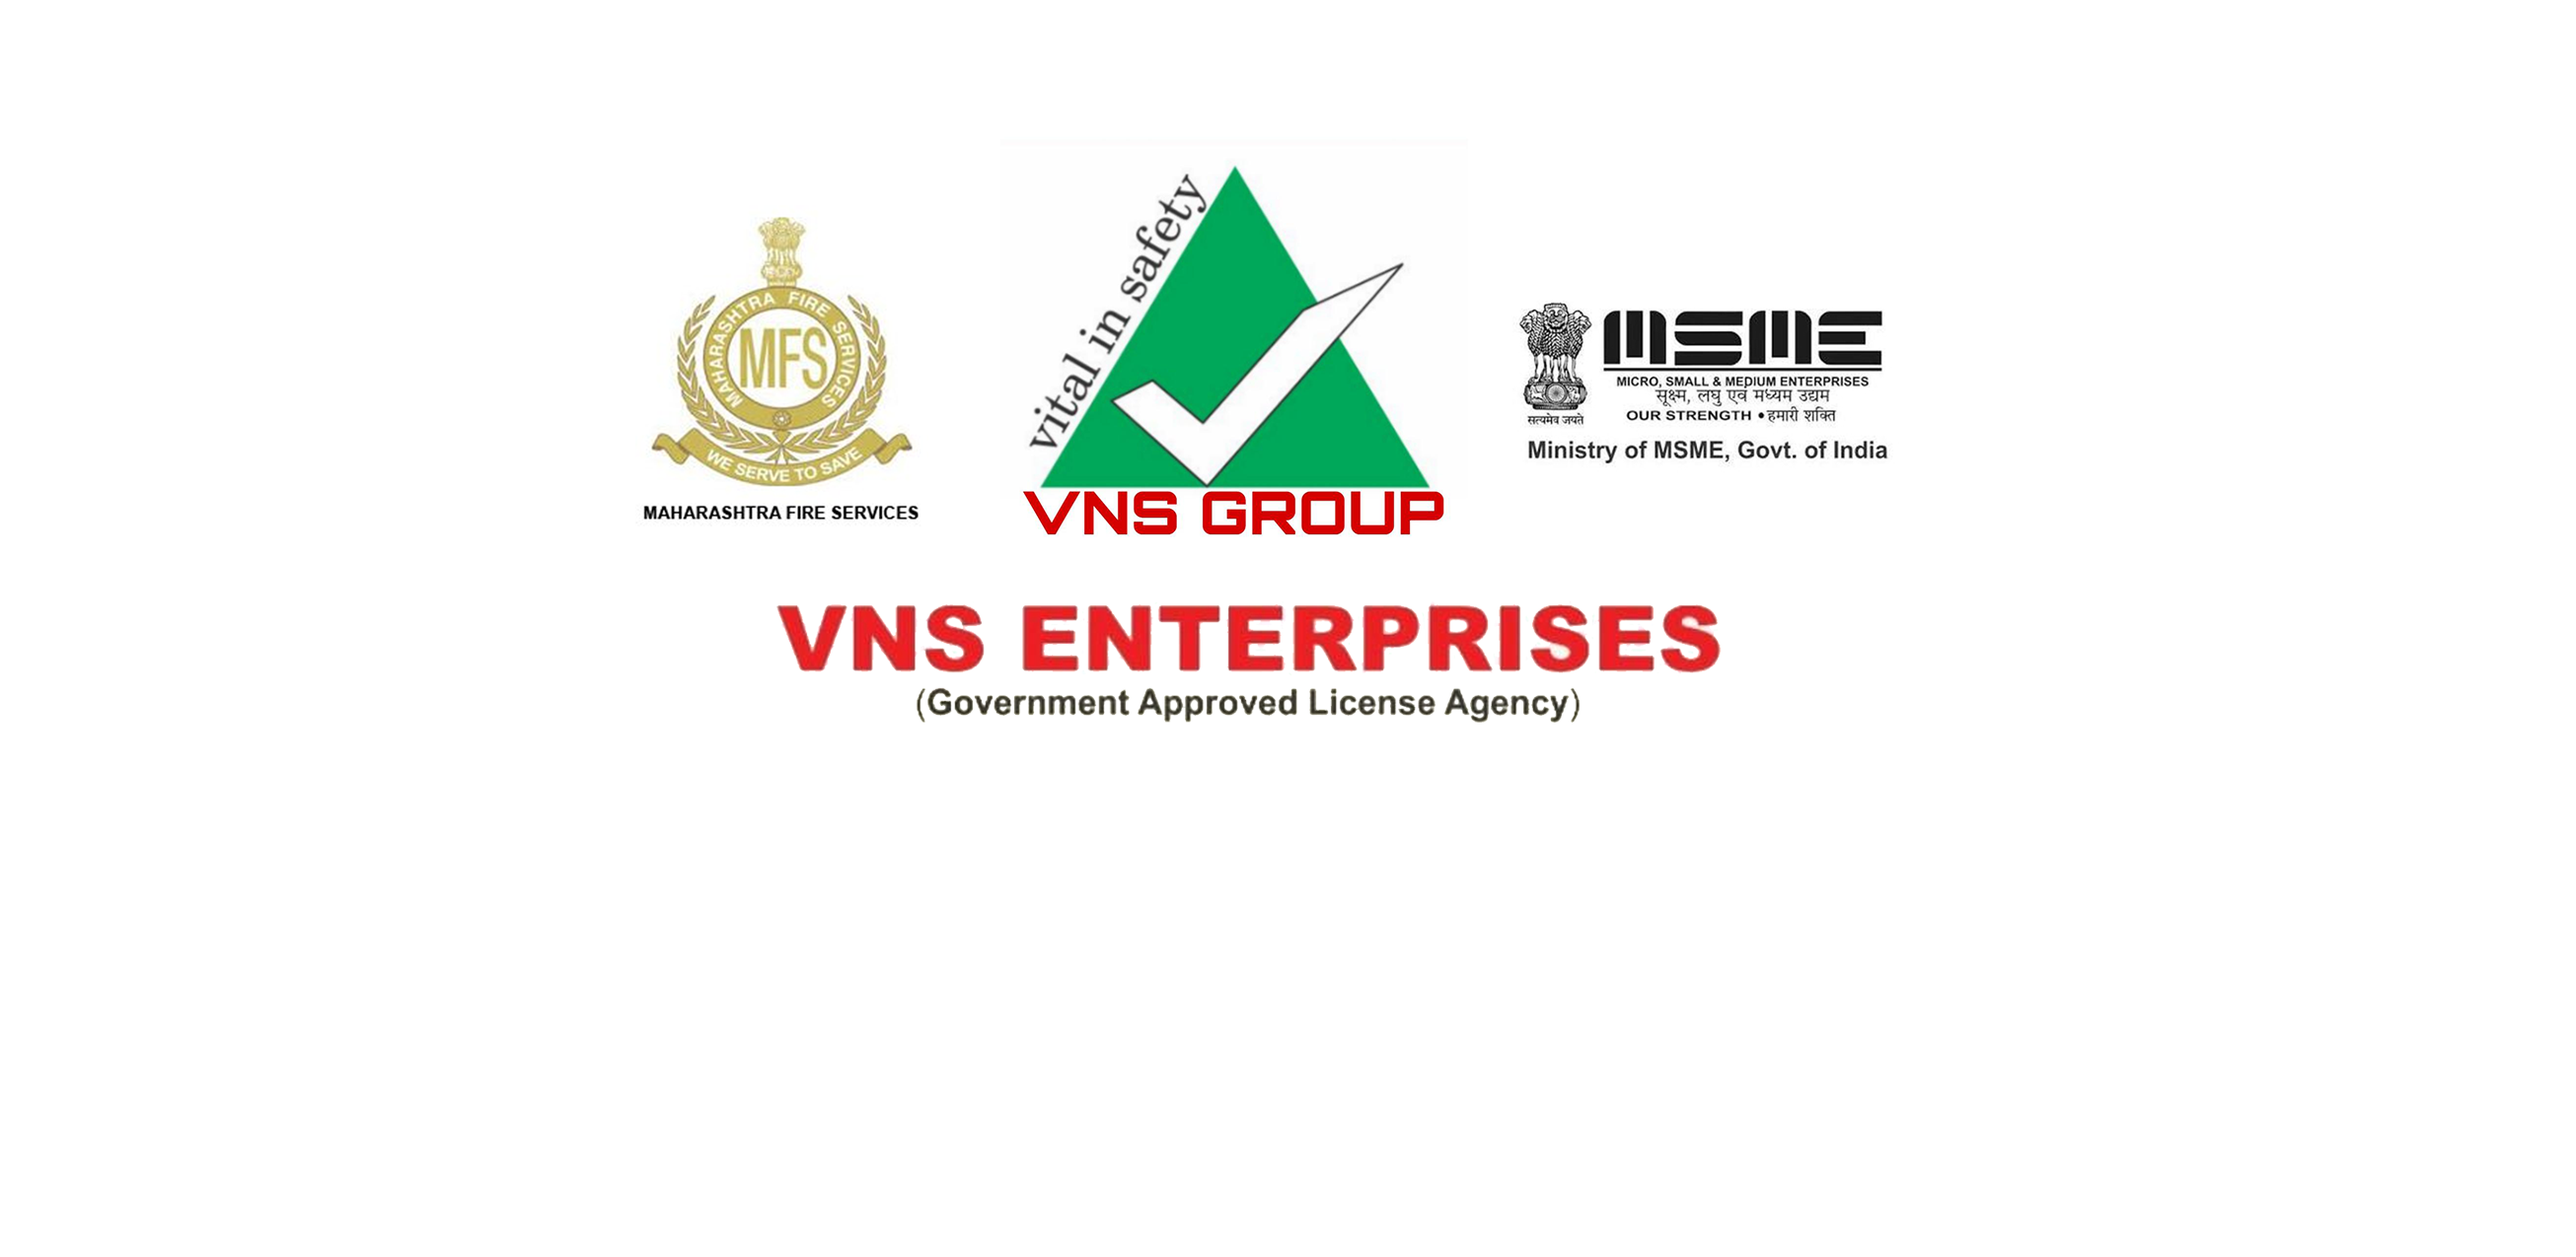
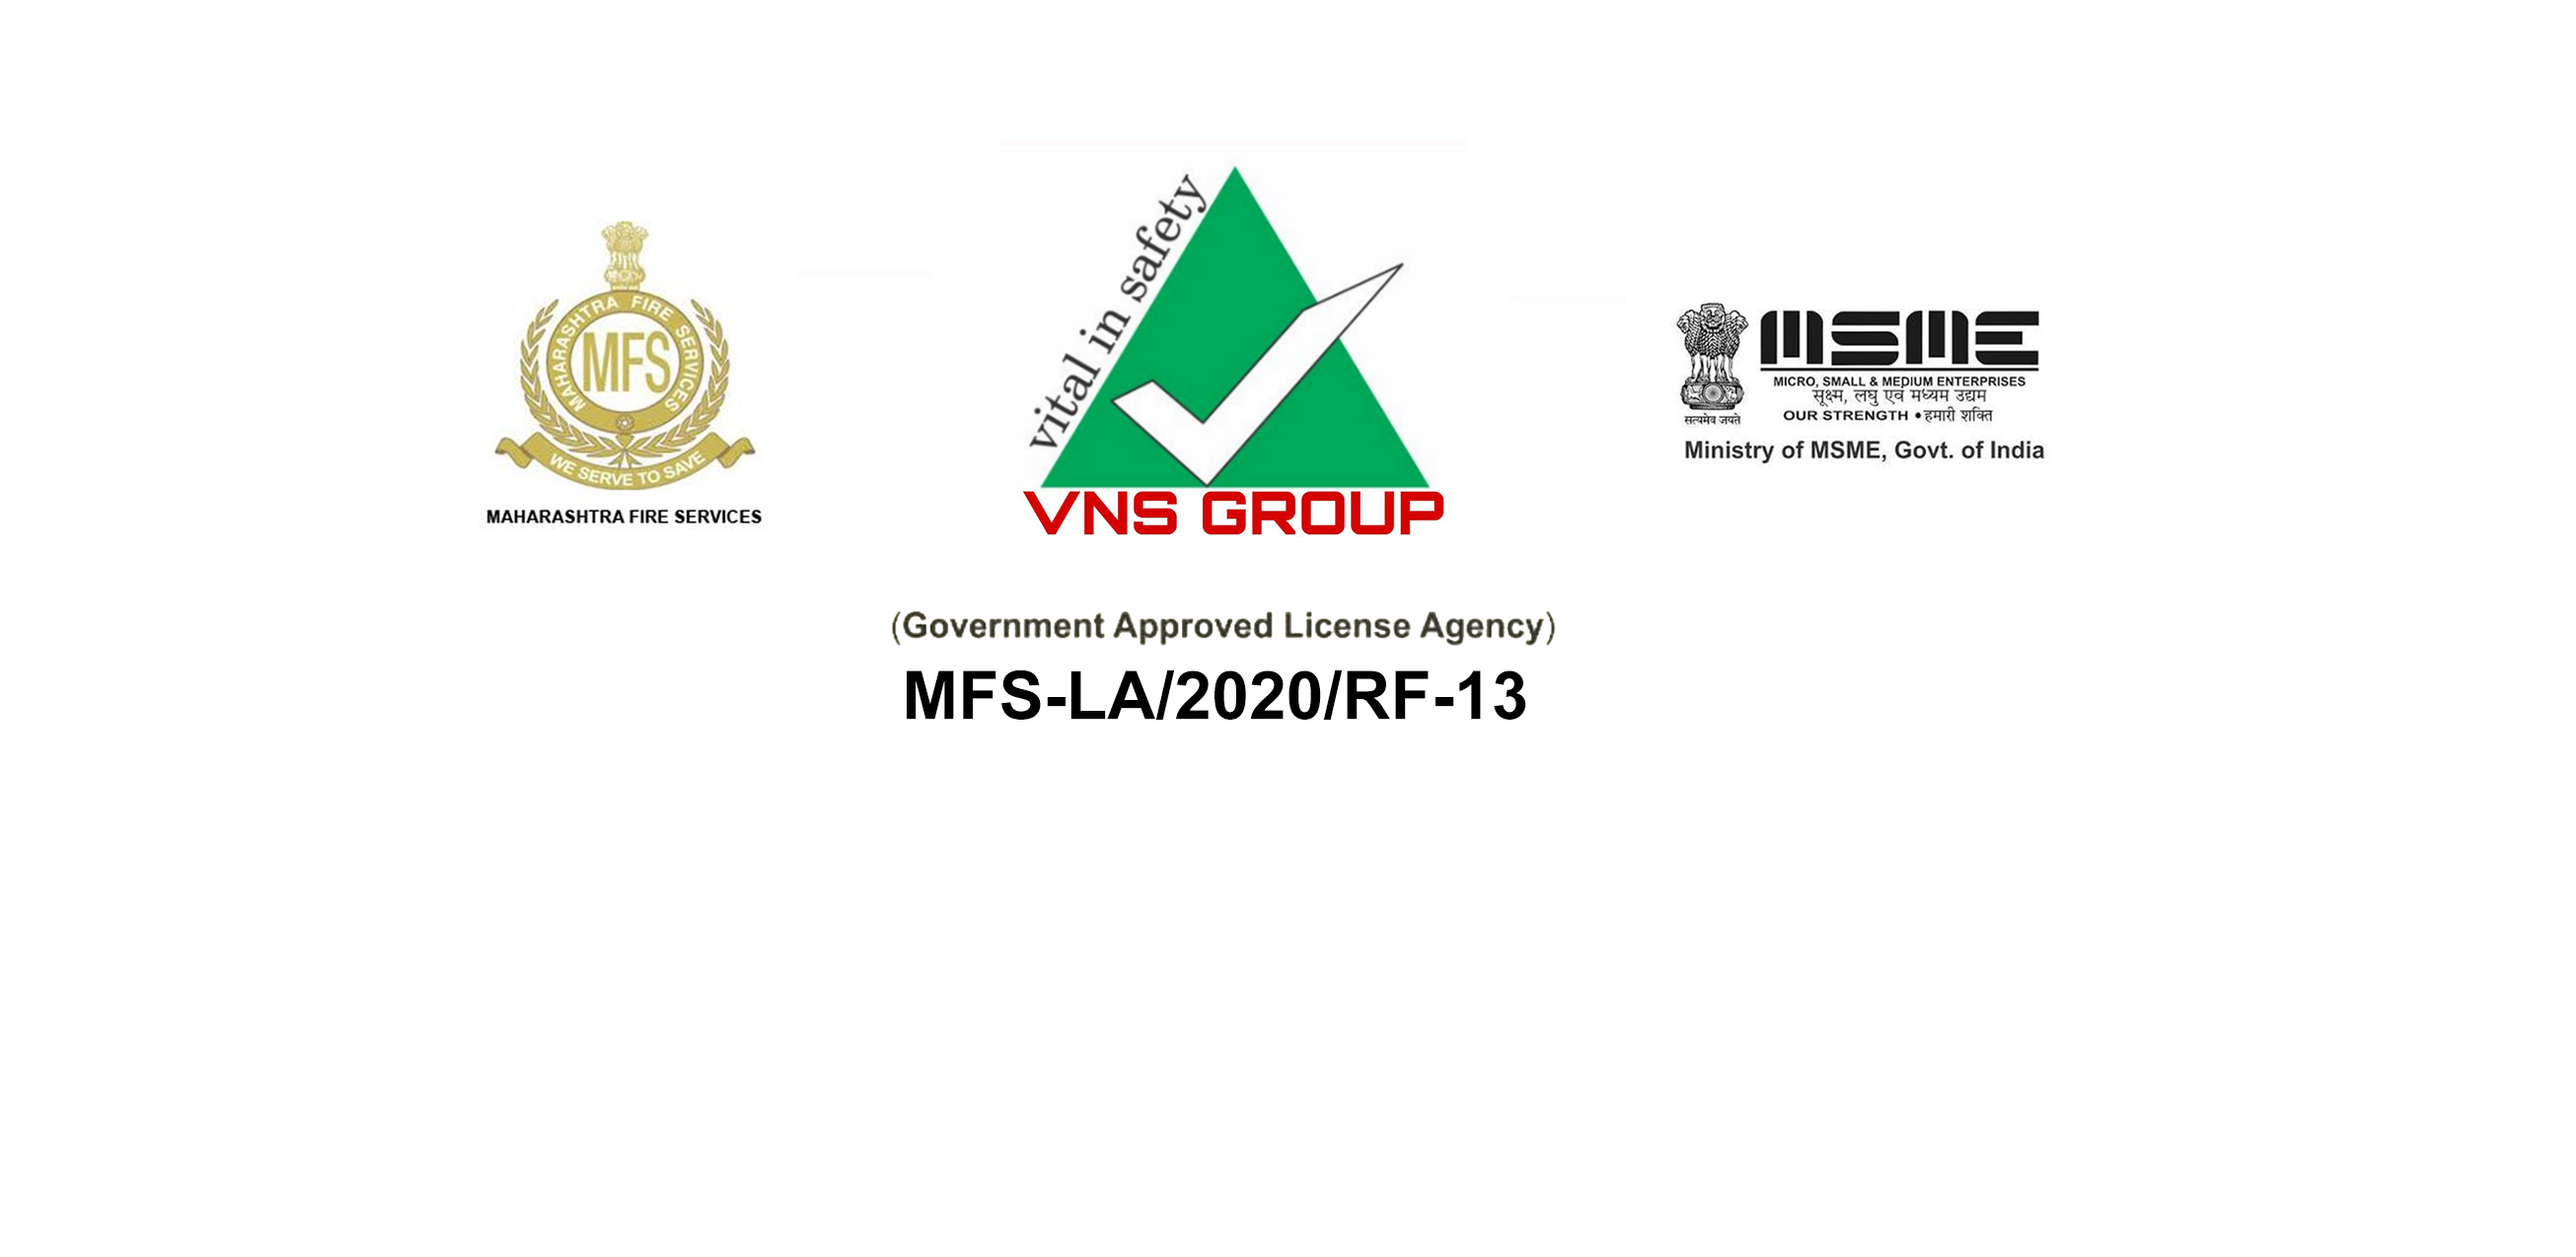
Finalised website

Changed region(s): [[0.2792, 0.4588, 0.6825, 0.5812], [0.1861, 0.1529, 0.3723, 0.4282], [0.5894, 0.2447, 0.8066, 0.3671]]

diff --git a/src/components/aboutUs2.vue b/src/components/aboutUs2.vue
@@ -5,17 +5,41 @@
 				<img src="../assets/vnslogo.jpg" class="img-fluid" alt="" />
 			</div>
 
-			<div class="container">
+			<div class="container about">
 				<h4 class="subheading">
 					VNS - Vital in Safety
 				</h4>
-                    <p>VNS GROUP was established in 2015 with the Aim of Becoming in MAHARASTRA&rsquo;S Best fire Protection solution provider in order to provide a wide range of system in order to protect
-                    And prevent any sort of fire Disaster .</p>
-                    <p>Also <strong>&ldquo;An Approved Licensed Agency For Directorate of Maharastra Fire Services &rdquo;</strong>. we Have undertaken and Successfully completed many project in and around the maharastra.</p>
-                    <p><strong>VNS ENTREPRISES</strong> is comprehensive solution Provider For Any type of fire Disaster with a wide range of Product from basic level fire Extinguisher to sophisticated full-fledged fire protection system.</p>
-                    <p><strong>VNS FIRE SOLUTION PVT.LTD &nbsp;</strong>is A well-designed water based Automatic fire protection System in High rise building / Commercial &amp; industrial complexes <strong>&nbsp;&amp; </strong>installed &nbsp;Fire Hydrant Systems ,Fire Sprinkler Systems ,Fire Alarm Systems ,fire detection Systems, fire Securities Systems &amp; fire Control Pannel As Minimum Possible Time by Team of Exports &amp; Professional.</p>
-                    <p>&nbsp;&nbsp;&nbsp;&nbsp;&nbsp;&nbsp;</p>
-                    <p>&nbsp;</p>			
+				<p>
+					VNS GROUP was established in 2015 with the Aim of Becoming in
+					MAHARASTRA&rsquo;S Best fire Protection solution provider in order to
+					provide a wide range of system in order to protect And prevent any
+					sort of fire Disaster .
+				</p>
+				<p>
+					Also
+					<strong
+						>&ldquo;An Approved Licensed Agency For Directorate of Maharastra
+						Fire Services &rdquo;</strong
+					>. We Have undertaken and Successfully completed many project in and
+					around the maharastra.
+				</p>
+				<p>
+					<strong>VNS ENTREPRISES</strong> is comprehensive solution Provider
+					For Any type of fire Disaster with a wide range of Product from basic
+					level fire Extinguisher to sophisticated full-fledged fire protection
+					system.
+				</p>
+				<p>
+					<strong>VNS FIRE SOLUTION PVT.LTD &nbsp;</strong>is a well-designed
+					water based Automatic fire protection System in High rise building /
+					Commercial &amp; industrial complexes
+					<strong>&nbsp;&amp; </strong>installed &nbsp;Fire Hydrant Systems
+					,Fire Sprinkler Systems ,Fire Alarm Systems ,fire detection Systems,
+					fire Securities Systems &amp; fire Control Pannel As Minimum Possible
+					Time by Team of Exports &amp; Professional.
+				</p>
+				<p>&nbsp;&nbsp;&nbsp;&nbsp;&nbsp;&nbsp;</p>
+				<p>&nbsp;</p>
 			</div>
 		</div>
 	</div>
@@ -56,9 +80,12 @@
 	.how-img img {
 		width: 75%;
 	}
-    .p{
-        text-align: left;
-    }
+	.p {
+		text-align: left;
+	}
+	.about {
+		text-align: left;
+	}
 	@media only screen and (max-width: 768px) {
 		.grid-contain {
 			display: grid;

diff --git a/src/components/Carousel.vue b/src/components/Carousel.vue
@@ -2,7 +2,7 @@
 	<div>
 		<b-carousel
 			id="carousel-1"
-			:interval="2000"
+			:interval="3000"
 			controls
 			indicators
 			class="slides"
@@ -10,7 +10,7 @@
 			style="text-shadow: 1px 1px 2px #333;"
 		>
 			<!-- Text slides with image -->
-			<b-carousel-slide class="slides blacktxt" caption="MFS-LA/2020/RF-13" text=""
+			<b-carousel-slide class="slides blacktxt" caption="" text=""
 				><template v-slot:img>
 					<img
 						class="d-block img-fluid w-100 custom"
@@ -38,10 +38,10 @@
 <script>
 	export default {
 		name: "Carousel",
-		data(){
+		data() {
 			return {
-				firstimg:''
-			}
+				firstimg: "",
+			};
 		},
 		mounted() {
 			if (screen.width < 600) {
@@ -62,7 +62,7 @@
 		object-fit: cover;
 		object-position: top;
 	}
-	.blacktxt{
+	.blacktxt {
 		color: black;
 	}
 

diff --git a/src/components/AboutUs.vue b/src/components/AboutUs.vue
@@ -9,8 +9,12 @@
 				<h2>
 					<b>VNS Vital In Safety</b>
 				</h2>
-						<h6>VNS GROUP was established in 2015 with the Aim of Becoming in MAHARASTRA&rsquo;S Best fire Protection solution provider in order to provide a wide range of system in order to protect</h6>
-							<b-button to="/about" variant="outline-primary">More</b-button>				
+				<h6>
+					VNS GROUP was established in 2015 with the Aim of Becoming in
+					MAHARASTRA&rsquo;S Best fire Protection solution provider in order to
+					provide a wide range of system in order to protect
+				</h6>
+				<b-button to="/about" variant="outline-primary">Learn More...</b-button>
 			</div>
 		</div>
 	</div>

diff --git a/src/views/about.vue b/src/views/about.vue
@@ -25,7 +25,7 @@
 					img-alt="Image"
 					img-top
 					tag="article"
-					style="max-width: 28rem;"
+					style="max-width: 18rem;"
 					class="card3"
 				>
 					<b-card-text>
@@ -38,11 +38,11 @@
 					img-alt="Image"
 					img-top
 					tag="article"
-					style="max-width: 28rem;"
+					style="max-width: 18rem;"
 					class="card2"
 				>
 					<b-card-text>
-						( Executive Director ) 
+						( Executive Director )
 					</b-card-text>
 				</b-card>
 			</div>
